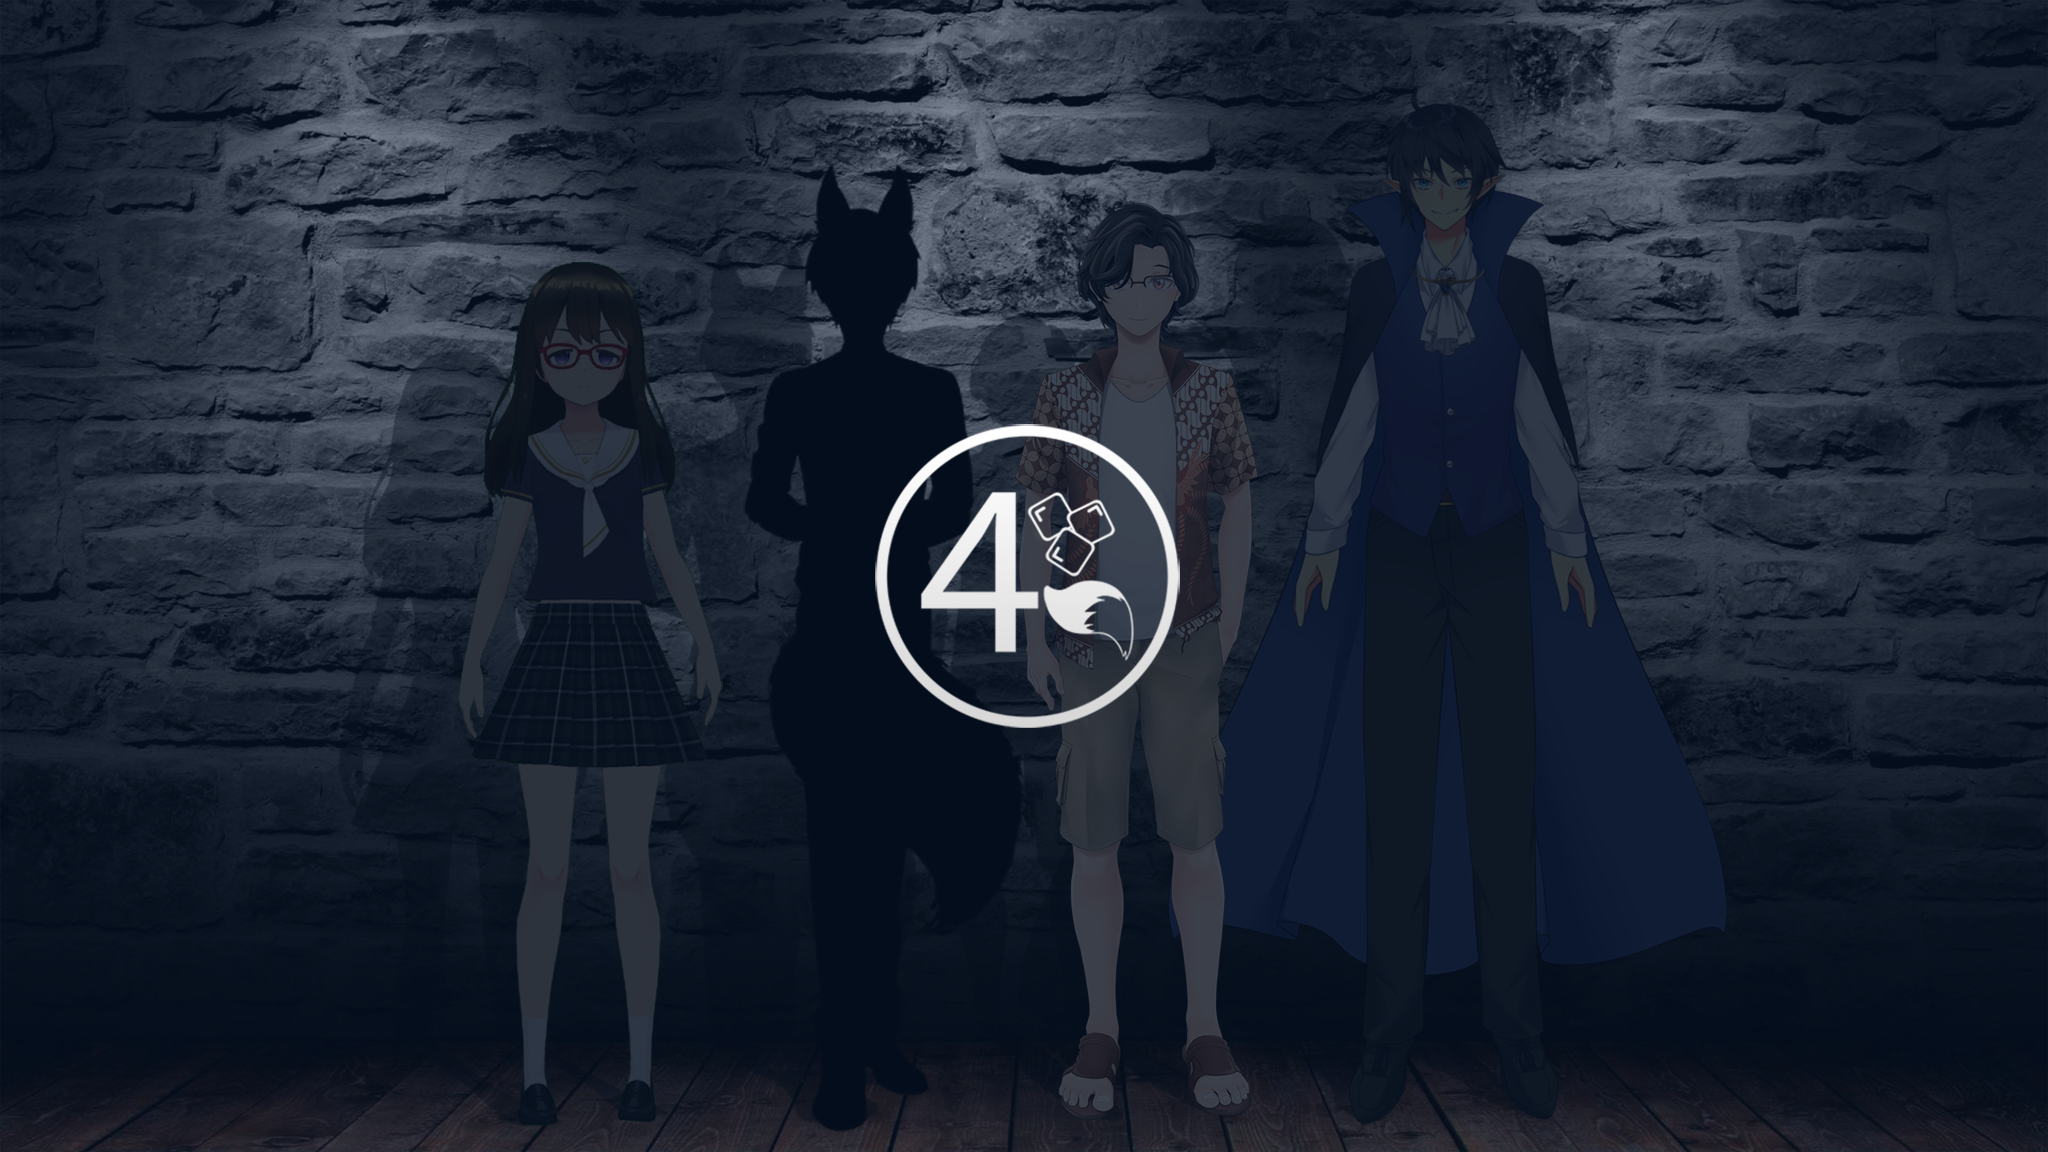
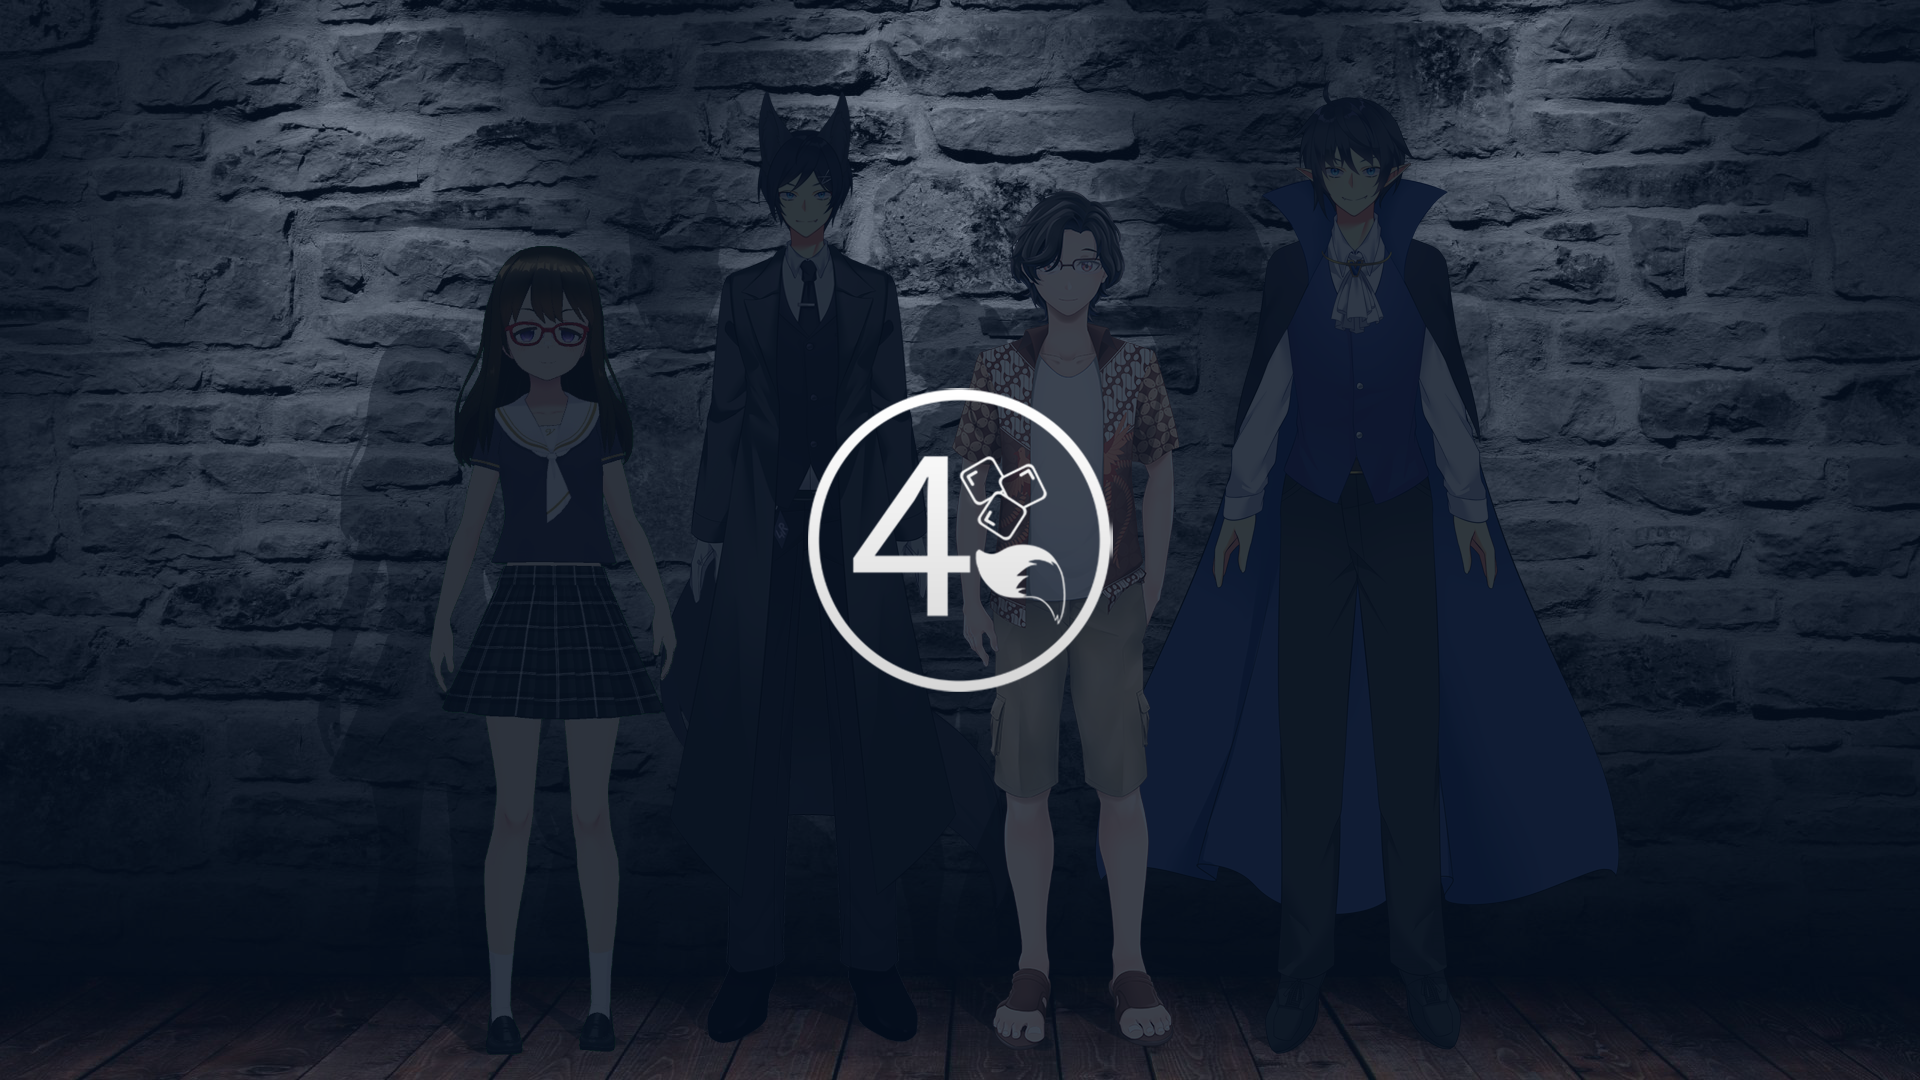
update
Itsuki Reveal

Changed region(s): [[0.4062, 0.3361, 0.5938, 0.6417], [0.375, 0.0917, 0.4688, 0.3361], [0.375, 0.9472, 0.4375, 0.9778]]

diff --git a/index.html b/index.html
@@ -179,13 +179,14 @@
                             <div class="col-xs-12 col-sm-12 col-md-5 col-lg-5 col-xl-5 text-center pt-3"><img src="/assets/img/GEN 1/Itsuki New.png" class="imgresp"></div>
                             <div class="col-md-7 col-lg-7 col-xl-7 pt-3">
                               <p><h2><B>Kurokami Itsuki</B></h2></p>
-                              <p>-DEBUT SOON-</p>
+                              <p></p>
                               <p>Name : <b>Kurokami Itsuki</b></p>
                               <p>Birthday : -</p>
                               <p>Race : Half Werewolf</p>
                               <p>Age : -</p>
                               <p>Height : -</p>
                               <p>Hobby : -</p>
+                              <p><a href="#"><button type="button" class="btn btn-outline-primary">See more..</button></a></p>
                               <br><p><b>Social Media :</b></p>
                               <div class="row">
                                 <div class="col xs-12 col-sm-2">
@@ -251,6 +252,7 @@
                               <p>Age : (Secret)</p>
                               <p>Height : 158</p>
                               <p>Hobby : Gaming, Programming, Sleeping</p>
+                              <p><a href="#"><button type="button" class="btn btn-outline-primary">See more..</button></a></p>
                               <br><p><b>Social Media :</b></p>
                               <div class="row">
                                 <div class="col xs-12 col-sm-2">
@@ -315,6 +317,7 @@
                               <p>Age : (Secret)</p>
                               <p>Height : 170</p>
                               <p>Hobby : Interaction with people, Playing Game, Trading</p>
+                              <p><a href="#"><button type="button" class="btn btn-outline-primary">See more..</button></a></p>
                               <br><p><b>Social Media :</b></p>
                               <div class="row">
                                 <div class="col xs-12 col-sm-2">
@@ -382,6 +385,7 @@
                               <p>Age : 3108</p>
                               <p>Height : 183</p>
                               <p>Hobby : Gaming, Anime, Comic/Novel</p>
+                              <p><a href="#"><button type="button" class="btn btn-outline-primary">See more..</button></a></p>
                               <br><p><b>Social Media :</b></p>
                               <div class="row">
                                 <div class="col xs-12 col-sm-2">
@@ -459,6 +463,7 @@
                               <p>Age : 99</p>
                               <p>Height : 180 (include Ear)</p>
                               <p>Hobby : Gaming And Voice Acting</p>
+                              <p><a href="#"><button type="button" class="btn btn-outline-primary">See more..</button></a></p>
                               <br><p><b>Social Media :</b></p>
                               <div class="row">
                                 <div class="col xs-12 col-sm-2">
@@ -537,6 +542,7 @@
                               <p>Age : (Secret)</p>
                               <p>Height : 173</p>
                               <p>Hobby : Traveling, Writing, Listening Music</p>
+                              <p><a href="#"><button type="button" class="btn btn-outline-primary">See more..</button></a></p>
                               <br><p><b>Social Media :</b></p>
                               <div class="row">
                                 <div class="col xs-12 col-sm-2">
@@ -602,6 +608,7 @@
                               <p>Age : -</p>
                               <p>Height : 12</p>
                               <p>Hobby : Singing, Rebahan, Masuk dalam toples, "ABWANG"</p>
+                              <p><a href="#"><button type="button" class="btn btn-outline-primary">See more..</button></a></p>
                               <br><p><b>Social Media :</b></p>
                               <div class="row">
                                 <div class="col xs-12 col-sm-2">
@@ -667,6 +674,7 @@
                               <p>Age : Unknown</p>
                               <p>Height : Unknown</p>
                               <p>Hobby : Singing, updating her database</p>
+                              <p><a href="#"><button type="button" class="btn btn-outline-primary">See more..</button></a></p>
                               <br><p><b>Social Media :</b></p>
                               <div class="row">
                                 <div class="col xs-12 col-sm-2">
@@ -708,6 +716,8 @@
         </section><!-- End Team Section -->
 
   </main><!-- End #main -->
+
+
 
   <!-- ======= Footer ======= -->
   <footer id="footer">
